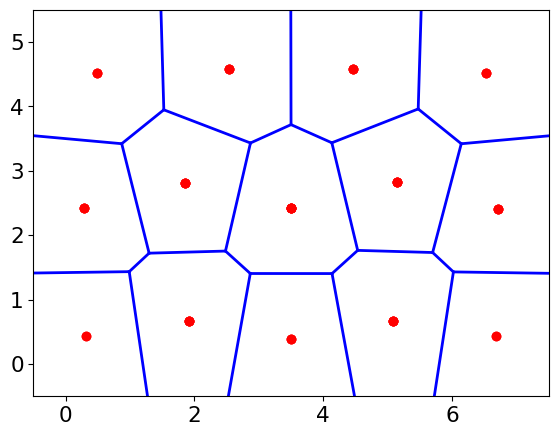
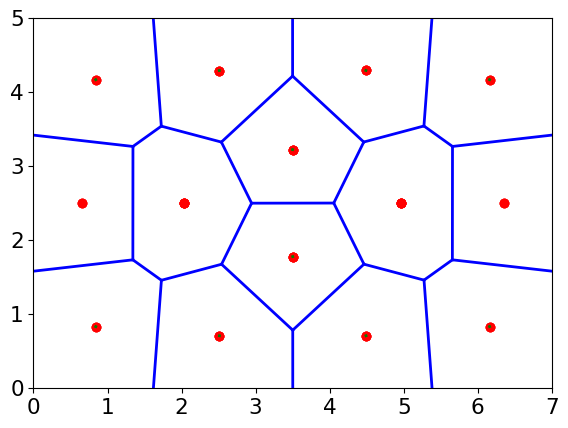
..

diff --git a/SweepLineVT/SweepLineVT.py b/SweepLineVT/SweepLineVT.py
@@ -169,7 +169,6 @@ class HalfEdgeM(object):
 				if not (-0.5<=yb<=self.TopLimit and -0.5<=xb<=self.RightLimit): print('What',xb,yb,xs,ys)
 			self.summit = xs,ys
 	#END_OF_def complete(self,xs,ys,echo=False):
-	#def line(self,x,y): xb,yb = self.base if yb<=-0.5 and y<=-0.5 or yb>=self.TopLimit and y>=self.TopLimit: return "" if y>-0.5 and yb<-0.5: #for the edge with (x1,y1) and (x2,y2) on its two sides #find the point (x,0) which is equi-distance to the two points x1,y1 = self.p0 x2,y2 = self.p1 xb = (x2**2 + (y2+0.5)**2 - x1**2 - (y1+0.5)**2) /2. /(x2-x1) yb = -0.5 if yb<self.TopLimit and y>self.TopLimit: x1,y1 = self.p0 x2,y2 = self.p1 x = (x2**2 + (y2+0.5-Voronoi.ImgSizeY)**2 - x1**2 - (y1+0.5-Voronoi.ImgSizeY)**2) /2. /(x2-x1) y = self.TopLimit if y<-0.5 and yb>-0.5: x1,y1 = self.p0 x2,y2 = self.p1 x = (x2**2 + (y2+0.5)**2 - x1**2 - (y1+0.5)**2) /2. /(x2-x1) y = -0.5 return "line(%.3f,%.3f,%.3f,%.3f) # line=0 0 tag={%d,%d-%d,%d-%d} font=\"helvetica 1 normal roman\"" % (yb+1,xb+1,y+1,x+1,self.p0[0],self.p0[1],self.p1[0],self.p1[1],self.direct)
 
 class SweepTable(dict):
 	#a dict of half edges
@@ -480,12 +479,15 @@ class Voronoi(object):
 				#print(f'Set image size: {xlow:g}~{xhigh:g} {ylow:g}~{yhigh:g}')
 			self.OffSetX = -0.5-xlow #shift the lower border to -0.5
 			events[:,0] += self.OffSetX
+			xhigh += self.OffSetX
 			self.OffSetY = -0.5-ylow #shift the lower border to -0.5
 			events[:,1] += self.OffSetY
-			self.ImgSizeX = int(xhigh+self.OffSetX+0.5)
-			self.ImgSizeY = int(yhigh+self.OffSetY+0.5)
+			yhigh += self.OffSetY
+			self.ImgSizeX = int(xhigh+0.5)
+			self.ImgSizeY = int(yhigh+0.5)
 			self.RightLimit=self.ImgSizeX-0.5
 			self.TopLimit=self.ImgSizeY-0.5
+			#print(xhigh,self.RightLimit,yhigh,self.TopLimit)
 			if np.min(events[:,0])<-0.5 or np.min(events[:,1])<-0.5 or np.max(events[:,0])>self.RightLimit or np.max(events[:,1])>self.TopLimit:
 				print(color(f"ERROR: points out of -0.5~{self.RightLimit:g}, -0.5~{self.TopLimit:g}",31,1))
 				exit()

diff --git a/slvt.py b/slvt.py
@@ -141,6 +141,8 @@ Caveat
 		if Options.get('makeCVT',False) and Options.get('border',False):
 			data=np.random.random(size=(CVTNumber,2))*[border['xhigh']-border['xlow'],border['yhigh']-border['ylow']]+[border['xlow'],border['ylow']]
 			vor=Voronoi(events=data,**Options)
+			assert vor.RightLimit+0.5==border['xhigh']-border['xlow'] \
+			and vor.TopLimit+0.5==border['yhigh']-border['ylow']
 		else: sys.exit('A number is accepted only in makeCVT mode with given border')
 	else:
 		sys.exit("Please input an image, or a list of points, or a number!\n")
@@ -149,9 +151,11 @@ Caveat
 		vor.saveresults()
 	else:
 		ctd=np.array(list(vor.Wmap.values()))
+		xoff,yoff=vor.OffSetX,vor.OffSetY
 		border={'xlow':-0.5,'ylow':-0.5,'xhigh':vor.RightLimit,'yhigh':vor.TopLimit}
 		scale=vor.scale
 		MaxIteration=1000
+		MaxSep=0.0001
 		for n in range(MaxIteration):
 			Options['FileName']='iter'+str(n)
 			Options['border']=border
@@ -159,10 +163,12 @@ Caveat
 			ctd=np.array(list(vor.Wmap.values()))
 			#if n%10==0: vor.saveresults()
 			#print('Max',np.max(np.sqrt(np.sum(vor.ctdvector**2,axis=1))))
-			if np.max(np.sqrt(np.sum(vor.ctdvector**2,axis=1)))<0.001: break
+			if np.max(np.sqrt(np.sum(vor.ctdvector**2,axis=1)))<MaxSep: break
 		if n==MaxIteration-1: warnings.warn(f'Limited to {MaxIteration} iteration. Not yet optimized')
 		Options['FileName']='CVT'+str(CVTNumber)
 		vor=Voronoi(events=ctd,**Options)
+		vor.OffSetX=xoff
+		vor.OffSetY=yoff
 		vor.saveresults()
 
 #import profile

diff --git a/README.md b/README.md
@@ -4,7 +4,7 @@
 * Make centroidal Voronoi Tessellation (CVT)
 * Make Delaunay triangulation
 * Take accurate positions of points with no need of pixelation / binning.
-* Confine Voronoi diagram to specified rectangular region
+* Confine Voronoi diagram to a rectangular region
 ## Examples
 ### Make Voronoi Tessellation for a list of points
 * The content of "example.dat"
@@ -29,7 +29,7 @@ The red points are the Voronoi sites (input points from "example.dat"). The gree
 
 ### Make centroidal Voronoi Tessellation (CVT) of 14 points in 0<x<6,0<y<4.
 ```
-slvt.py --makeCVT 14 --border 0,6,0,4 -s
+slvt.py --makeCVT 14 --border 0,7,0,5 -s
 pl_VT.py CVT14_VT.dat -s
 ```
 
